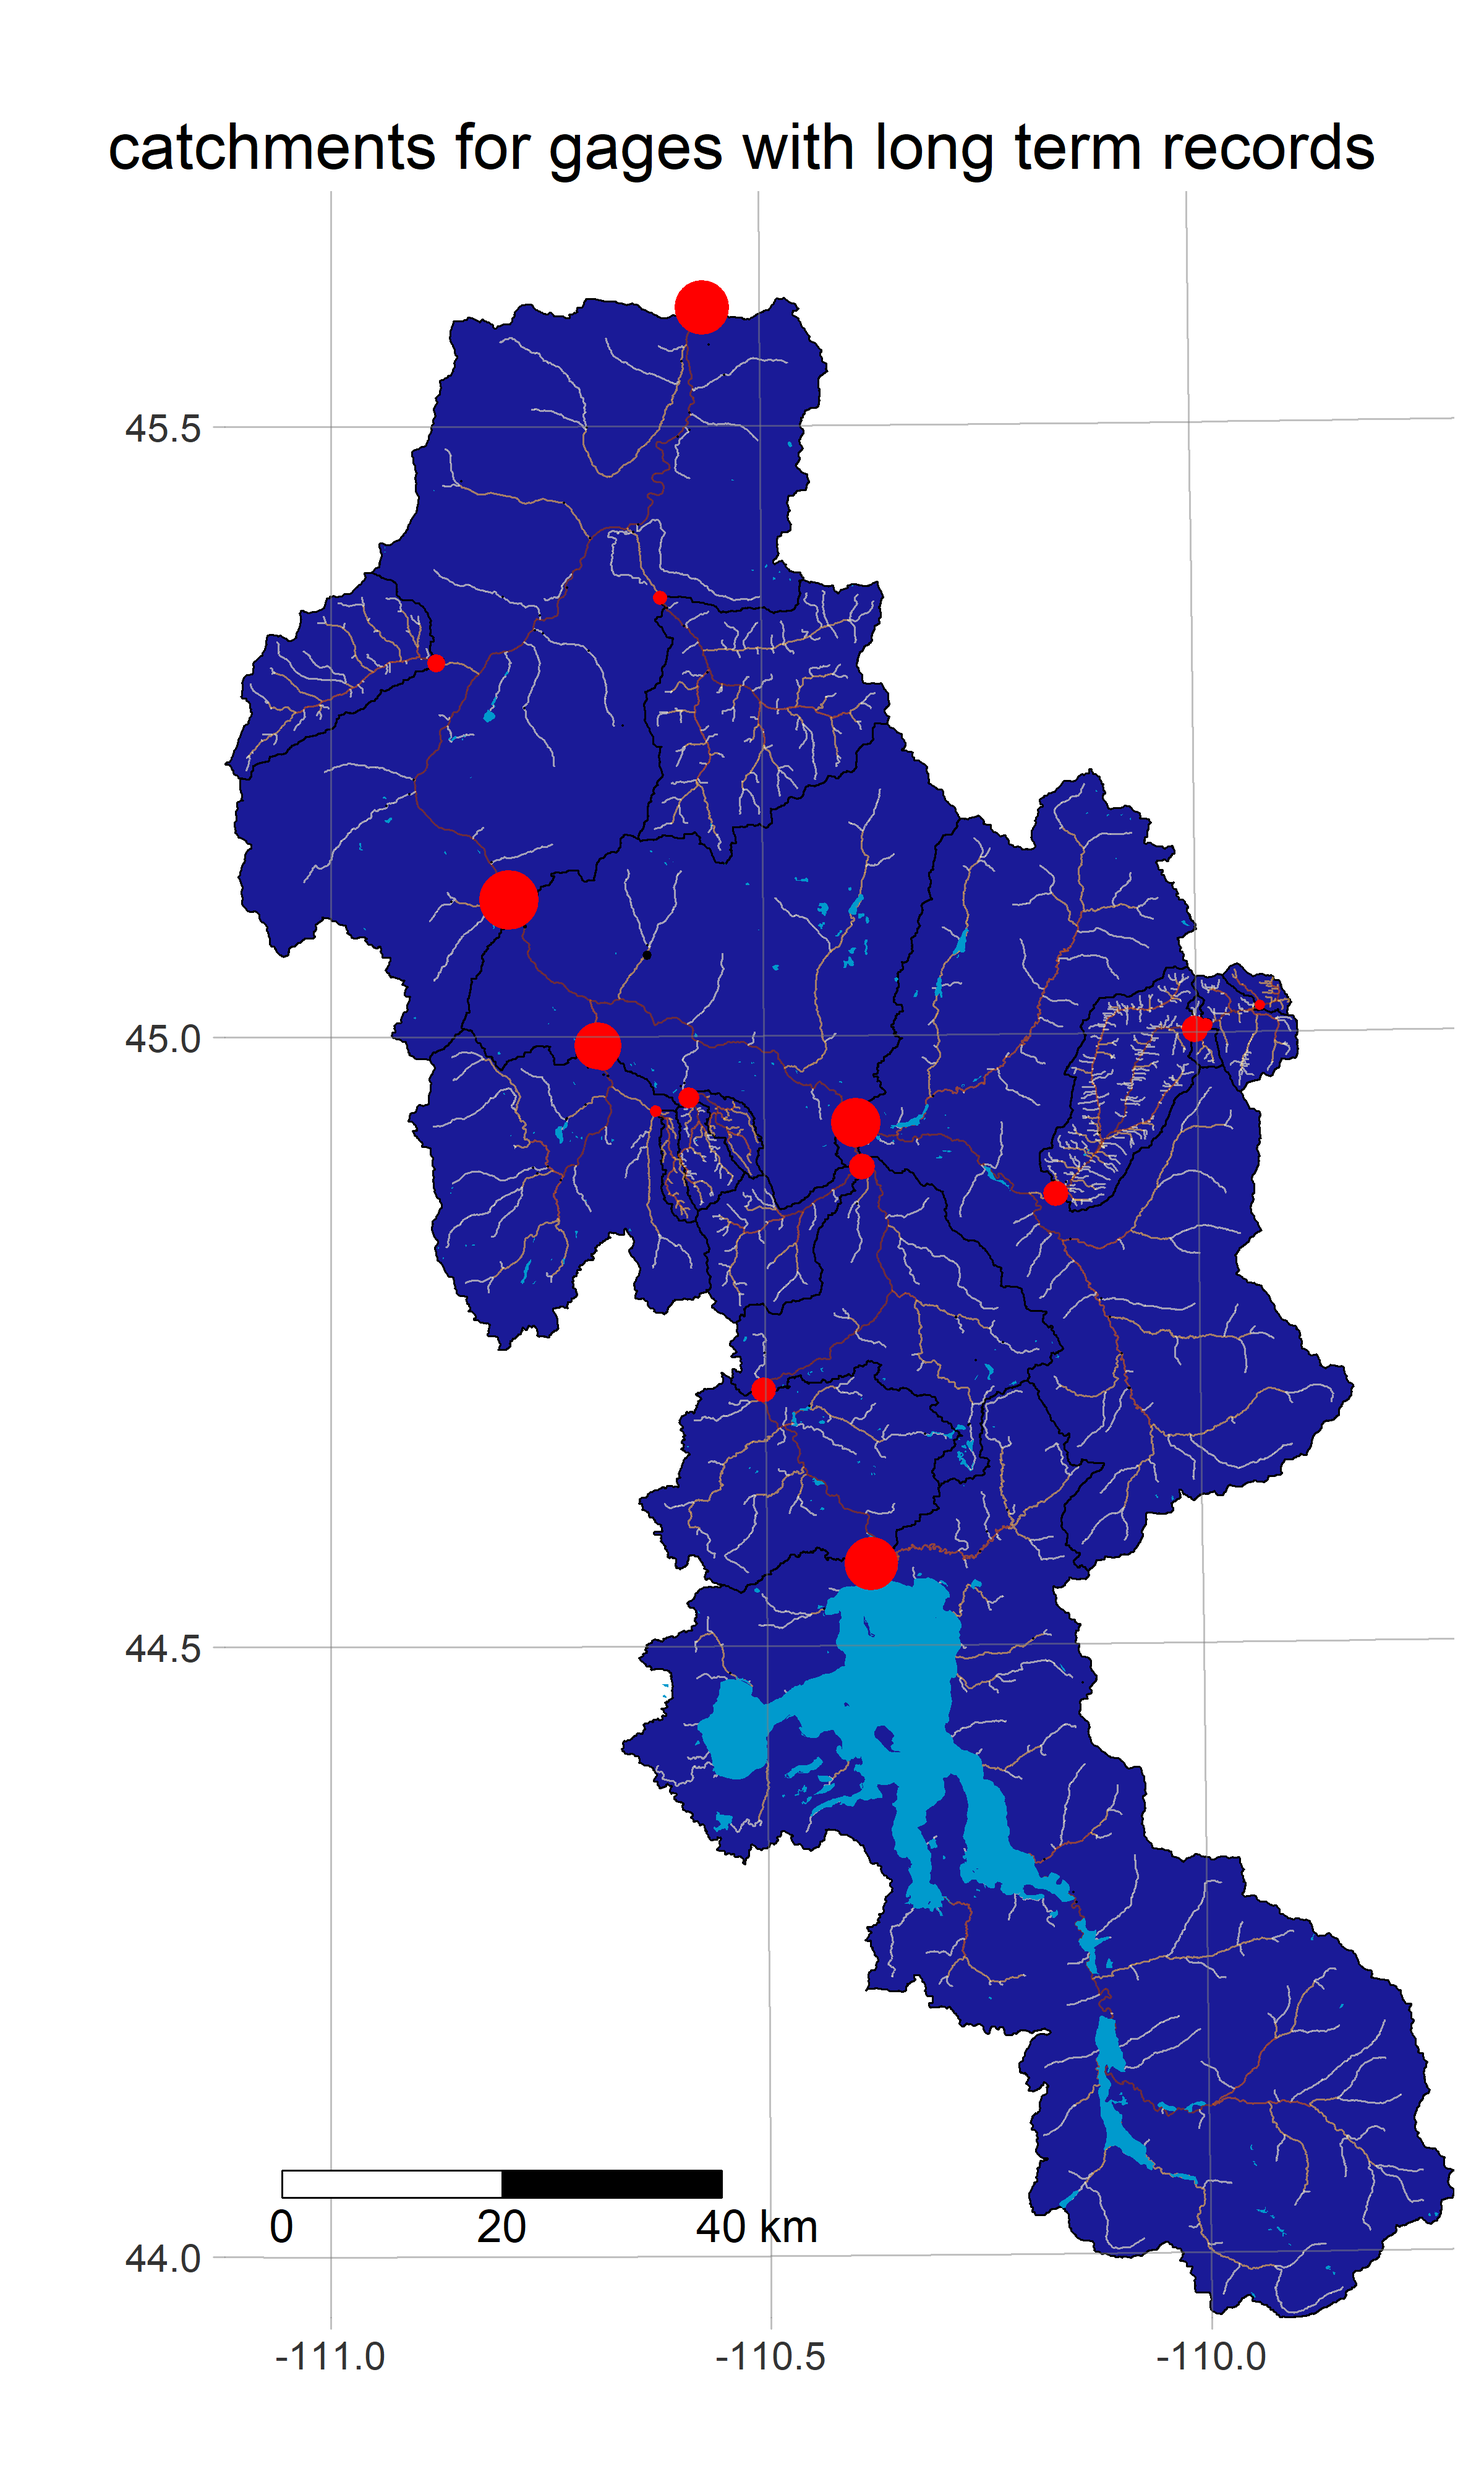
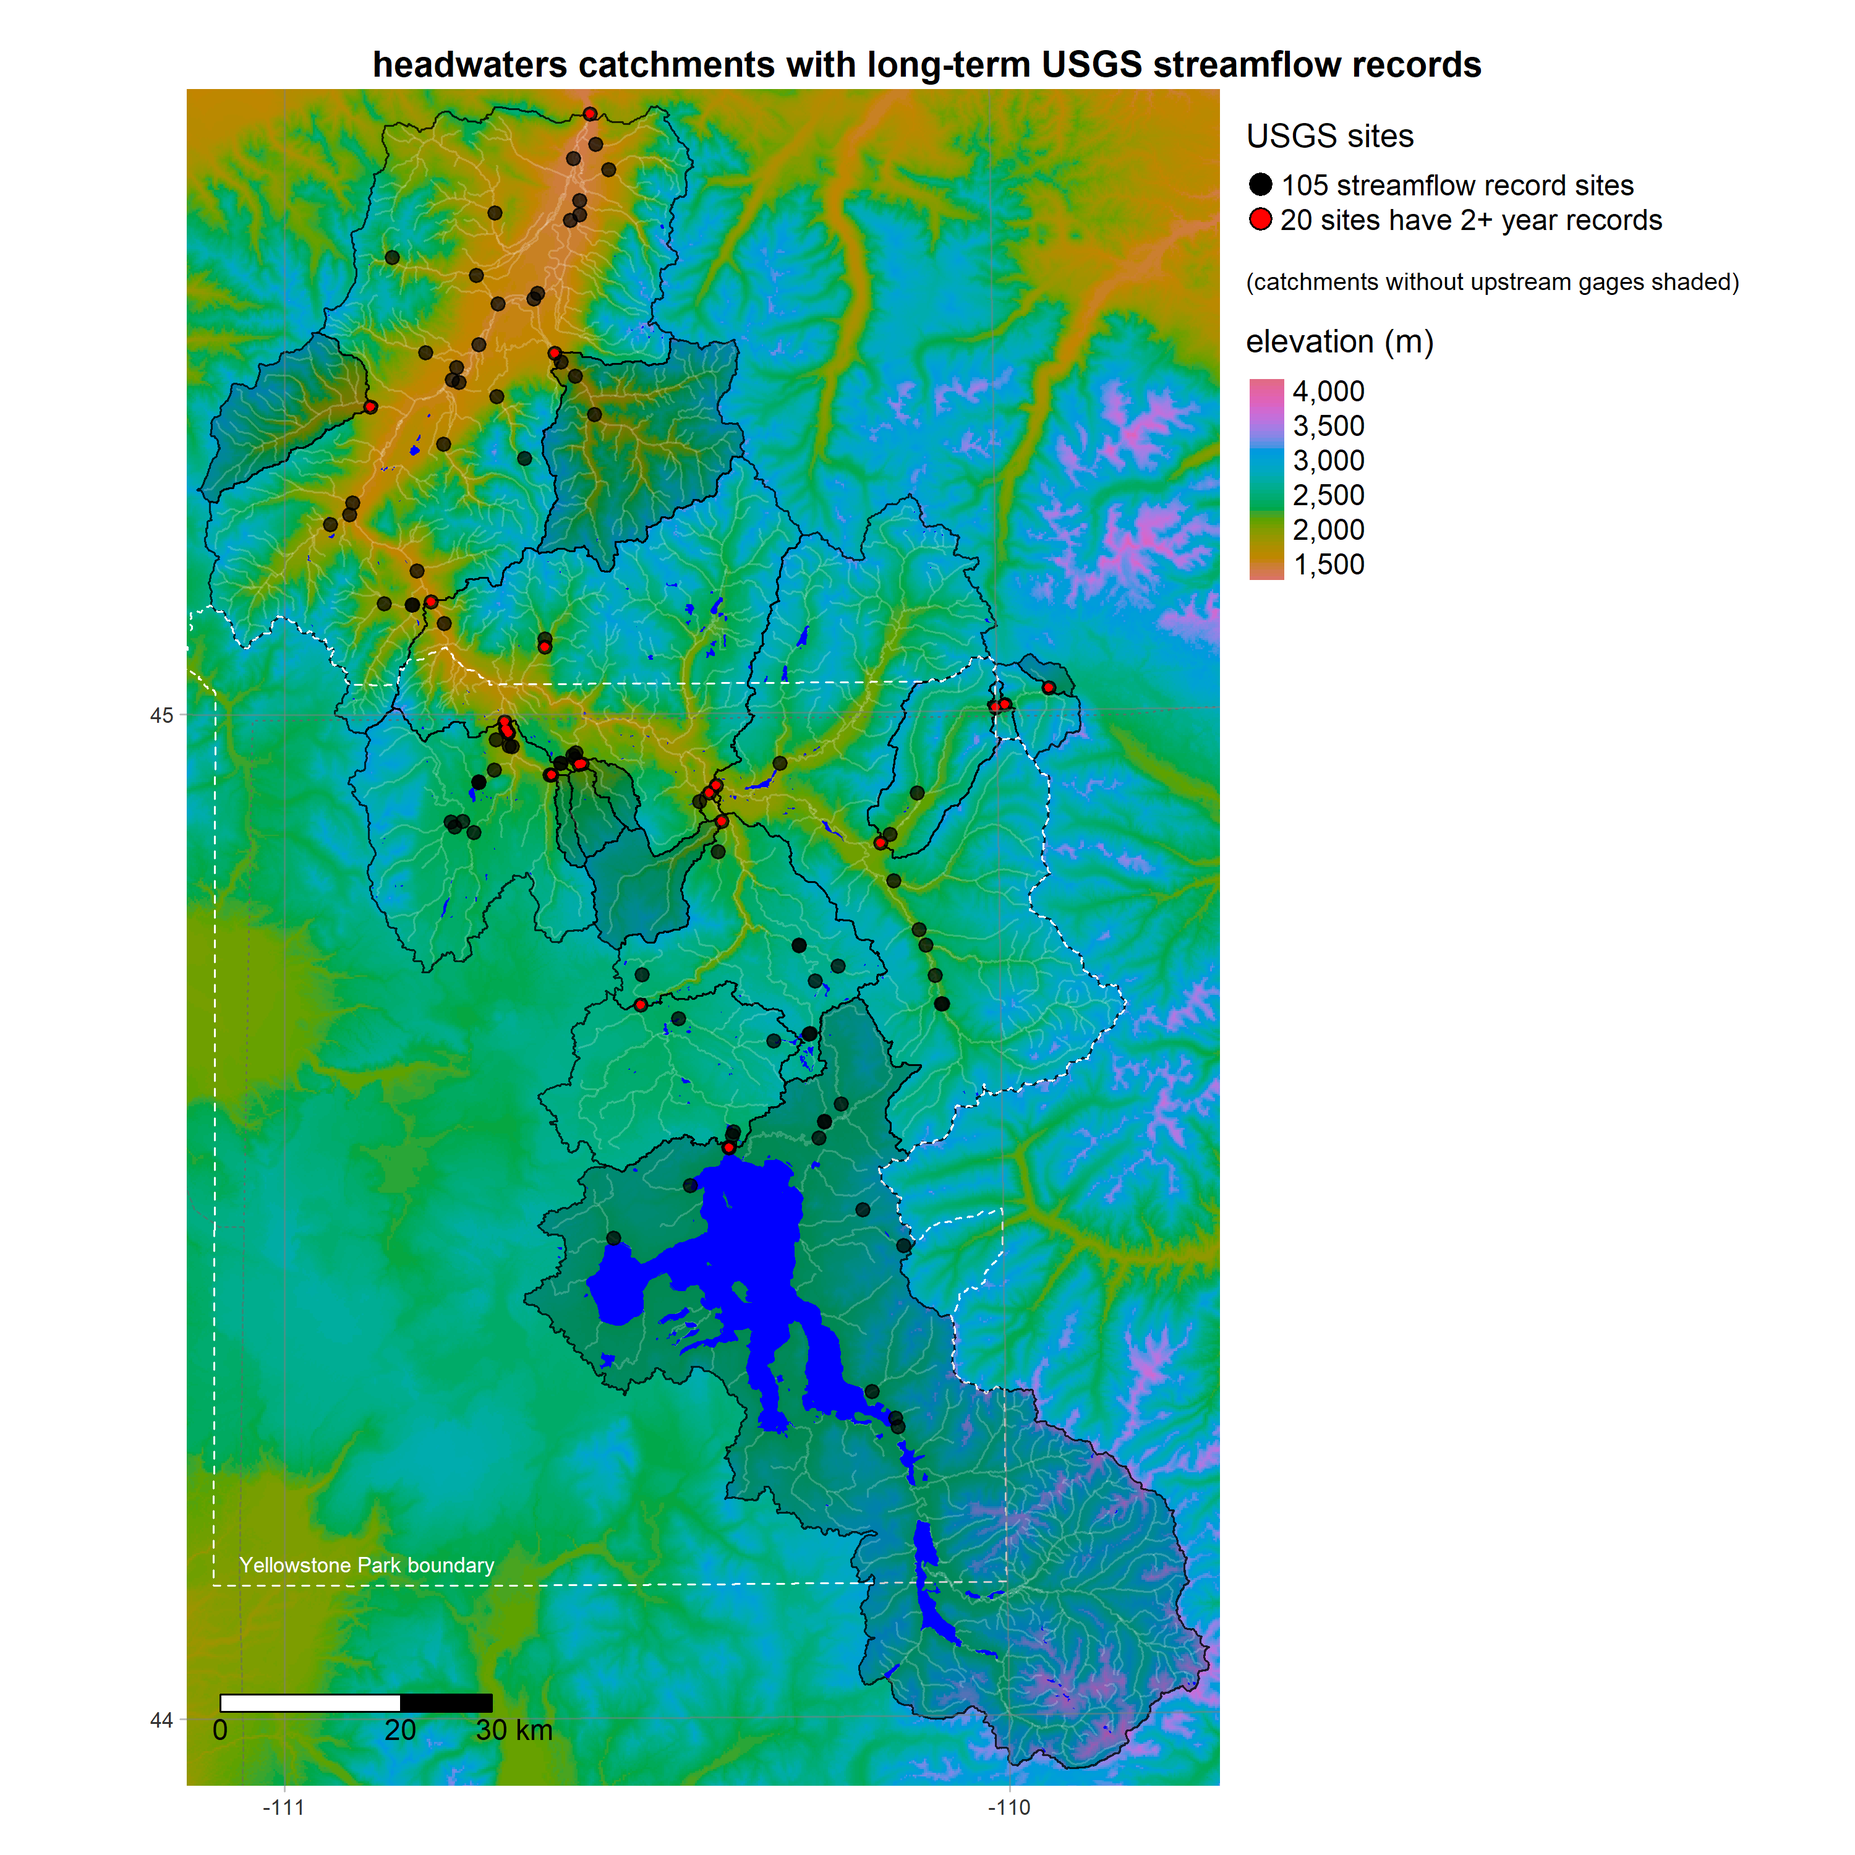
added plots to subwatersheds maker

diff --git a/markdown/make_subwatersheds.md b/markdown/make_subwatersheds.md
@@ -1,7 +1,7 @@
 make\_subwatersheds.R
 ================
 Dean Koch
-2021-03-10
+2021-03-25
 
 **Mitacs UYRW project**
 
@@ -11,7 +11,7 @@ fitted with separate SWAT+ models
 This script runs the TauDEM workflow on the DEM for the UYRW to
 determine the channel network and drainage layout for the entire
 watershed. It then partitions this area into subwatersheds based on the
-locations of long-term (1e3+ daily records) USGS streamflow gages, and a
+locations of long-term (2+yr daily records) USGS streamflow gages, and a
 minimum area threshold.
 
 Our algorithm delineates subwatersheds along catchment boundaries such
@@ -46,15 +46,15 @@ functions.
 library(here)
 source(here('R/helper_main.R'))
 source(here('R/analysis/helper_analysis.R'))
-```
 
-load the rswat
-
-``` r
+# the rswat library reads/writes SWAT+ files and builds/runs the model
 source(here('R/rswat.R'))
 
+# source of the stateline polygons for the plots
+library(maps)
+
 # set the minimum number of daily gage records for each subwatershed outlet
-obsmin = 3*365
+obsmin = 2*365
 
 # set the minimum subwatershed area in km^2
 areamin = 5
@@ -77,12 +77,13 @@ subwatersheds.meta = my_metadata('get_subwatersheds', files.towrite, overwrite=T
 print(subwatersheds.meta[, c('file', 'type')])
 ```
 
-    ##                                                    file          type
-    ## usgs_allcatchments data/prepared/usgs_allcatchments.rds R list object
-    ## img_my_catchments            graphics/my_catchments.png   png graphic
-    ## taudem                        data/prepared/taudem_uyrw     directory
-    ## usgs_catchments       data/prepared/usgs_catchments.rds R list object
-    ## metadata            data/get_subwatersheds_metadata.csv           CSV
+    ##                                                        file          type
+    ## img_my_catchments_full      graphics/my_catchments_full.png   png graphic
+    ## usgs_allcatchments     data/prepared/usgs_allcatchments.rds R list object
+    ## img_my_catchments                graphics/my_catchments.png   png graphic
+    ## taudem                            data/prepared/taudem_uyrw     directory
+    ## usgs_catchments           data/prepared/usgs_catchments.rds R list object
+    ## metadata                data/get_subwatersheds_metadata.csv           CSV
 
 ``` r
 # load the DEM and basins info
@@ -92,8 +93,8 @@ streamgages.meta = my_metadata('get_streamgages')
 
 # load some watershed geometry data
 uyrw.dem = raster(here(dem.meta['dem', 'file']))
-uyrw.poly = readRDS(here(basins.meta['boundary', 'file']))
 uyrw.flowline = readRDS(here(basins.meta['flowline', 'file']))
+uyrw.waterbody = readRDS(here(basins.meta['waterbody', 'file']))
 crs.list = readRDS(here(basins.meta['crs', 'file']))
 
 # load the point representing the main outlet of the UYRW (Carter's Bridge)
@@ -166,8 +167,8 @@ usgs.dat = readRDS(here(streamgages.meta['USGS_data', 'file']))$dat
 # these are arranged in a list, where each entry corresponds to a distinct site (n=105)
 usgs.pts = do.call(rbind, lapply(usgs.dat, function(site) site$sf[1,]))
 
-# TODO: do this character > integer change in get_streamgages.R
-usgs.pts$count_nu = as.integer(usgs.pts$count_nu)
+# TODO: these totals weren't correct (counting only first dataframe?) - go back and fix the bug in get_streamgages.R
+usgs.pts$count_nu = sapply(usgs.dat, function(x) sum(sapply(x$dat, nrow)))
 
 # the number of observations varies a lot - pick out the sites with > 1000 records
 usgs.nobs = sapply(usgs.dat, function(site) sum(sapply(site$dat, function(record) nrow(record))))
@@ -203,12 +204,143 @@ if(!file.exists(usgs.allcatchments.path))
 } else {
   
   # load the list of file paths and descriptions
-  usgs.allcatchments = readRDS(usgs.catchments.path)
+  usgs.allcatchments = readRDS(usgs.allcatchments.path)
   
 }
+```
 
+## plotting
 
-# TODO: add a graphic to show the subwatershed delineation results
+Add a graphic to show the subwatershed delineation results
+![](https://raw.githubusercontent.com/deankoch/UYRW_data/master/graphics/my_catchments.png)
+
+``` r
+# output paths defined above
+img.longterm.path = here(subwatersheds.meta['img_my_catchments', 'file'])
+img.all.path = here(subwatersheds.meta['img_my_catchments_full', 'file'])
+
+if(!file.exists(img.all.path))
+{
+  # get parks boundaries polygons
+  uyrw.nps = readRDS(here(basins.meta['ynp_boundary', 'file']))
+  
+  # get polygons for state lines from `maps` package
+  states.sf = my_maps('state', outcrs=st_crs(bou)) %>% 
+    filter(name %in% c('montana', 'wyoming', 'idaho'))
+  
+  # make a text label for the park boundary
+  line.idaho = states.sf %>% filter(name == 'idaho') %>% st_geometry %>% st_cast('LINESTRING')
+  line.nps = uyrw.nps %>% st_geometry %>% st_cast('POLYGON') %>% st_cast('LINESTRING')
+  pt.parkbou = st_cast(st_intersection(line.nps, line.idaho), 'POINT')
+  pt.parkbou = st_sf(data.frame(name='Yellowstone Park boundary'), geometry=pt.parkbou[2]) 
+  
+  # create boundary polygon and grab outlets points
+  bou = st_union(st_geometry(usgs.allcatchments$boundary))
+  pts = usgs.allcatchments$pts
+  
+  # print some counts of the outlets points
+  idx.pts.multiyear = pts$count_nu > 2 * 365
+  
+  # make labels for point legend
+  msg.usgs = paste(nrow(usgs.allcatchments$pts), 'streamflow record sites')
+  msg.multi = paste(sum(idx.pts.multiyear), 'sites have 2+ year records')
+  
+  # make a copy of the catchments with multiyear records
+  mainout.idx = usgs.catchments$boundary$catchment_name == 'main_nr_livingston'
+  bou.cat = usgs.catchments$boundary
+  
+  # define breaks for the scale bar
+  km.breaks = c(0, pretty(1e-3 * diff(st_bbox(bou)[c('xmin', 'xmax')]) / 4, 2))
+  
+  # define layout options for the plot
+  layout = tm_layout(main.title = 'USGS daily streamflow record sites in the UYRW and their catchments',
+                     main.title.fontface ='bold',
+                     main.title.size = 1,
+                     main.title.position = 'center',
+                     legend.outside = TRUE,
+                     legend.outside.position = c('right', 'top'),
+                     legend.outside.size = 0.3,
+                     legend.text.size = 0.8,
+                     inner.margins = rep(1e-2, 4),
+                     frame = FALSE)
+  
+  # initialize tmap object with elevation raster
+  tmap.dem = tm_shape(bou) + 
+    tm_polygons(alpha=0, col='black') + 
+    tm_add_legend('symbol', 
+                  labels=c(msg.usgs, msg.multi), 
+                  col=c('black', 'red'), 
+                  title='USGS sites') +
+    tm_shape(uyrw.dem) +
+    tm_raster(legend.reverse=TRUE, 
+              palette=hcl.colors(1e3, 'Dark 3'), 
+              style='cont', 
+              title='elevation (m)')
+  
+  # add shapes and annotations
+  tmap.out = tmap.dem +
+    tm_shape(states.sf) + tm_borders(alpha=0.5, lty='dotted') +
+    tm_shape(usgs.allcatchments$boundary) + tm_borders(alpha=0.8, col='black') +
+    tm_shape(uyrw.nps) + tm_borders(col='white', lty='dashed') +
+    tm_shape(pt.parkbou) + tm_text('name', col='white', size=0.6, just='left', ymod=0.5) +
+    tm_shape(uyrw.flowline) + tm_lines(alpha=0.2, col='white', lwd=1) +
+    tm_shape(uyrw.waterbody) + tm_polygons(col='blue', border.col=NULL) +
+    tm_shape(pts) + tm_dots(alpha=0.7, size=0.2) + 
+    tm_shape(pts[idx.pts.multiyear,]) + tm_dots(col='red', size=0.05) +
+    tm_scale_bar(breaks=km.breaks, position=c('left', 'bottom'), text.size=0.8) + 
+    tm_grid(n.x=2, n.y=2, projection=crs.list$epsg.geo, alpha=0.5) +
+    layout
+  
+  # save a copy to disk
+  tmap_save(tm=tmap.out, filename=img.all.path, height=3000, width=3000, pointsize=14)
+}
+```
+
+Now make a version of only the multi-year records, and headwaters
+catchments shaded
+![](https://raw.githubusercontent.com/deankoch/UYRW_data/master/graphics/my_catchments_all.png)
+
+``` r
+if(!file.exists(img.longterm.path))
+{
+  # grab the (smaller subset of) outlets and identify subwatersheds without inlets
+  pts2 = usgs.catchments$pts
+  idx.hw = usgs.catchments$boundary$n_inlet == 0
+  
+  # modify the legend to include only the red points
+  tmap.dem2 = tm_shape(bou) + 
+    tm_polygons(alpha=0, col='black') + 
+    tm_add_legend('symbol', 
+                  labels=c(msg.usgs, msg.multi), 
+                  col=c('black', 'red'), 
+                  title='USGS sites') +
+    tm_add_legend('title', title='(catchments without upstream gages shaded)') +
+    tm_shape(uyrw.dem) +
+    tm_raster(legend.reverse=TRUE, 
+              palette=hcl.colors(1e3, 'Dark 3'), 
+              style='cont', 
+              title='elevation (m)')
+  
+  # add shapes and annotations
+  tmap.out2 = tmap.dem2 +
+    tm_shape(states.sf) + tm_borders(alpha=0.5, lty='dotted') +
+    tm_shape(usgs.catchments$boundary) + tm_borders(alpha=0.8, col='black') +
+    tm_shape(uyrw.nps) + tm_borders(col='white', lty='dashed') +
+    tm_shape(pt.parkbou) + tm_text('name', col='white', size=0.6, just='left', ymod=0.5) +
+    tm_shape(usgs.catchments$boundary[idx.hw,]) + tm_polygons(alpha=0.2, col='black', border.col=NULL) +
+    tm_shape(uyrw.flowline) + tm_lines(alpha=0.2, col='white', lwd=1) +
+    tm_shape(uyrw.waterbody) + tm_polygons(col='blue', border.col=NULL) +
+    tm_shape(pts) + tm_dots(alpha=0.7, size=0.2) + 
+    tm_shape(pts2) + tm_dots(col='red', size=0.05) +
+    tm_scale_bar(breaks=km.breaks, position=c('left', 'bottom'), text.size=0.8) + 
+    tm_grid(n.x=2, n.y=2, projection=crs.list$epsg.geo, alpha=0.5) +
+    layout + 
+    tm_layout(main.title = 'headwaters catchments with long-term USGS streamflow records')
+  
+  # save a copy to disk
+  tmap_save(tm=tmap.out2, filename=img.longterm.path, height=3000, width=3000, pointsize=14)
+
+}
 ```
 
 ``` r
